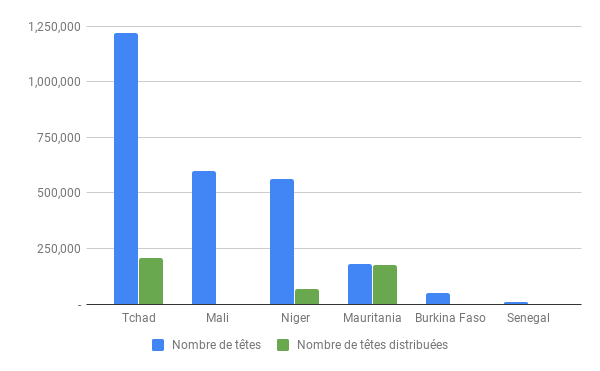
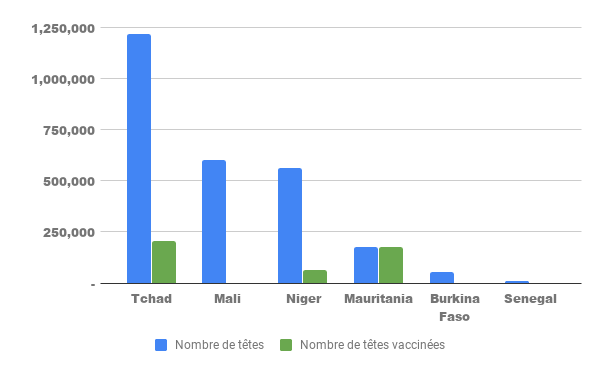
updates

diff --git a/index.html b/index.html
@@ -20,19 +20,17 @@
       <div class="container-fluid" id='main-container'>
         <div class='content'>
           <div class='container'> 
-            <h4 style="padding-left: 0px">Tableau de bord de la réponse de la FAO REOWA à la crise pastorale (à la date du 25 Novembre 2018)</h4>
+            <h4 style="padding-left: 0px">Tableau de bord de la réponse de la FAO REOWA à la crise pastorale dans le Sahel (à la date du 25 Novembre 2018)</h4>
             <div class="row">
               <h5 style="font-family: sans pro; font-size: 18px; padding-left: 13px"> Chiffres clés</h5>
               
-               <div class="col-md-4"style="font-size: 15px; font-family: sans pro"> <b>8,2 millions</b> de personnes à assister pour (2018-2021) </div>
-               
-             <div class="col-md-4" style="font-size: 15px; font-family: sans pro"> <b>166.8 millions</b> de dollars requis par la FAO</div> 
-             <div class="col-md-4" style="font-size: 15px; font-family: sans pro"> <b>44,2 millions</b> de dollars ont été mobilisés jusqu’à présent</div> 
+               <div class="col-md-4"style="font-size: 15px; font-family: sans pro"> <b><font color="red">8,2 millions</font></b> de personnes à assister pour (2018-2021) </div>
+               <div class="col-md-4" style="font-size: 15px; font-family: sans pro"> <b><font color="green">44.2 millions</font> </b>ont été mobilisés jusqu'à présent</div> 
+             <div class="col-md-4" style="font-size: 15px; font-family: sans pro"> <b><font color="green">625 560</font></b> personnes assistées au 25 novembre 2018</div> 
               </div>
               <div class="row"> 
-               <div class="col-md-4"style="font-size: 15px; font-family: sans pro">Gap de <b>122,6 millions</b> nécessaires soit 73.5% </div>
-               
-             <div class="col-md-4" style="font-size: 15px; font-family: sans pro"> <b>625 560</b> assistés au 25 Novembre 2018</div>
+               <div class="col-md-4"style="font-size: 15px; font-family: sans pro"><b><font color="red"> 166,8 millions</font></b> de dollars requis par la FAO </div>
+             <div class="col-md-4" style="font-size: 15px; font-family: sans pro">Gap de <font color="red"><b> 122.6  millions</b></font> ( soit <font color="red"> 73.5% </font>)</div>
               </div>
            <div id="header" class="row" style="padding-top: 10px"></div>
              
@@ -43,24 +41,24 @@
          <div class="row" style="padding-top: 10px"> 
                 
                 <div class="col-md-4" style="text-align: left; font-size: 15px; padding-left: 0px"> Montant du financement par pays </center>
-                <img src="chart.png" style ="width: 330px; height: 300px" >  
-                </div>
-                <div class="col-md-4" style="text-align: left; font-size: 15px; padding-left: 0px"> Personnes bénéficiaires par activité </center>
                 <img src="financement.png" style ="width: 330px; height: 300px" >  
                 </div>
+                <div class="col-md-4" style="text-align: left; font-size: 15px; padding-left: 0px"> Personnes bénéficiaires par activité </center>
+                <img src="activite.png" style ="width: 330px; height: 300px" >  
+                </div>
                 
-                <div class="col-md-4"style="text-align: left; font-size: 15px; padding-left: 0px; padding-bottom: 10px"> Choroplèthe des projets par pays</div>
+                <div class="col-md-4"style="text-align: left; font-size: 15px; padding-left: 0px; padding-bottom: 10px"> Choroplèthe des personnes bénéficiaires par pays</div>
                 <div class="col-md-4" id="MapInform" ></div>
         </div>
               <div class="row">
                   <div class="col-md-6">
-                       <div style="text-align: left; font-size: 15px; padding-left: 70px">  Aliments de bétail </div>
+                       <div style="text-align: left; font-size: 15px; padding-left: 60px">  Aliments de bétail (en tonne) </div>
                           
                              <img src="albetail.png" style ="width: 500px; height: 350px" > 
 						    
                   </div>
                   <div class="col-md-6">
-                       <div style="text-align: center; font-size: 15px"> Couverture sanitaire ( Bovins, petits ruminants)
+                       <div style="text-align: center; font-size: 15px; padding-right:200px"> Couverture sanitaire (Vaccins)
                           <div class="col-md-6"></div>
                              <img src="cs.png" style ="width: 450px; height: 350px" > 
                         </div> 
@@ -68,7 +66,7 @@
               </div>
               <div class="row">
                   <div class="col-md-6">
-                       <div style="text-align: left; font-size: 15px; padding-left: 70px"> Semences (Fourragères, Maraichères, Vivrières en Tonnes) </div>
+                       <div style="text-align: left; font-size: 15px; padding-left: 70px"> Semences (Fourragères, Maraichères, Vivrières en tonne) </div>
                           <div class="col-md-6">
                              <img src="semence.png" style ="width: 500px; height: 350px" > 
                 
@@ -83,13 +81,13 @@
               </div>
               <div class="row">
                   <div class="col-md-6">
-                       <div style="text-align: left; font-size: 15px; padding-left: 70px"> Outils aratoires </div>
+                       <div style="text-align: left; font-size: 15px; padding-left: 70px"> Outils aratoires (kits) </div>
                           <div class="col-md-6">
                              <img src="aratoire.png" style ="width: 500px; height: 350px" > 
                 </div>
                   </div>
                   <div class="col-md-6">
-                       <div style="font-size: 15px; padding-left: 40px"> Destockage (Bovins)  </div>
+                       <div style="font-size: 15px; padding-left: 60px"> Destockage (Bovins)  </div>
                           <div class="col-md-6"></div>
                              <img src="destock.png" style ="width: 500px; height: 350px" > 
                         
@@ -97,7 +95,7 @@
               </div>
               <div class="row">
                   <div class="col-md-6">
-                       <div style="text-align: left; font-size: 15px; padding-left: 70px"> Capitalisation (Bovins,Petits Ruminans, Porcs, Volaille) </div>
+                       <div style="text-align: left; font-size: 15px; padding-left: 70px"> Distribution d'actif (Bovins,Petits Ruminants, Porcs, Volaille) </div>
                           <div class="col-md-6">
                              <img src="tete.png" style ="width: 500px; height: 350px" > 
                 </div>
